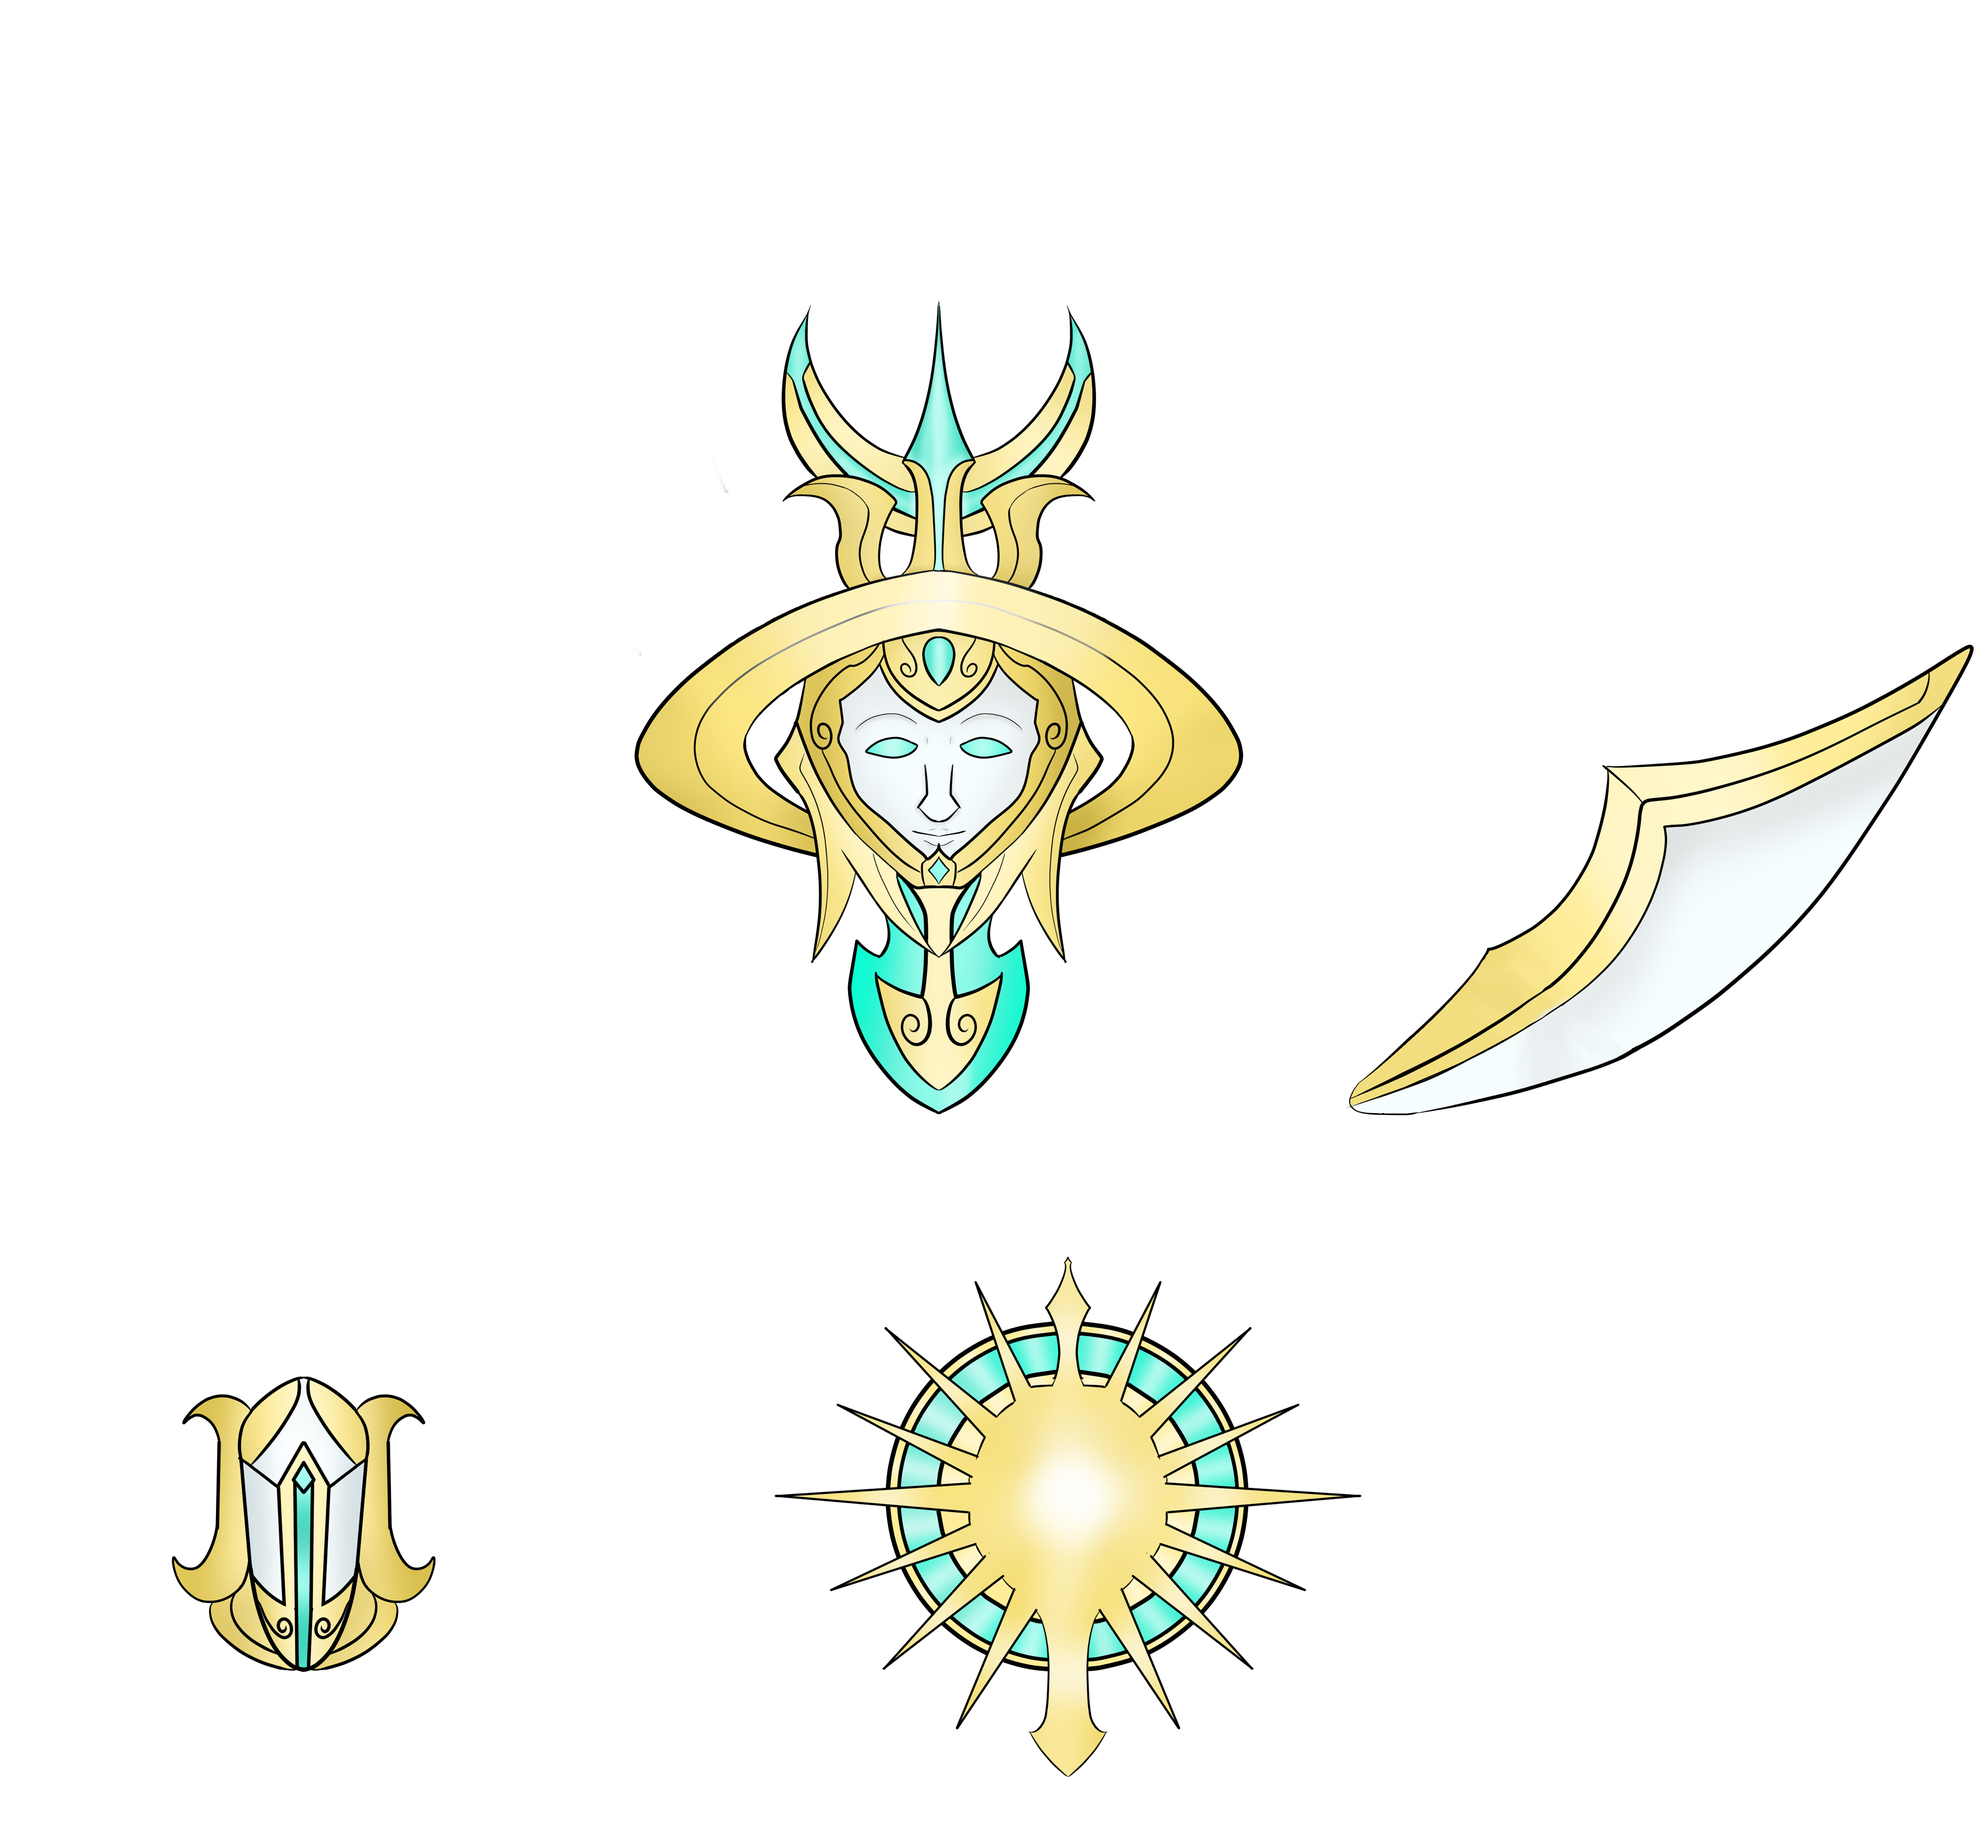
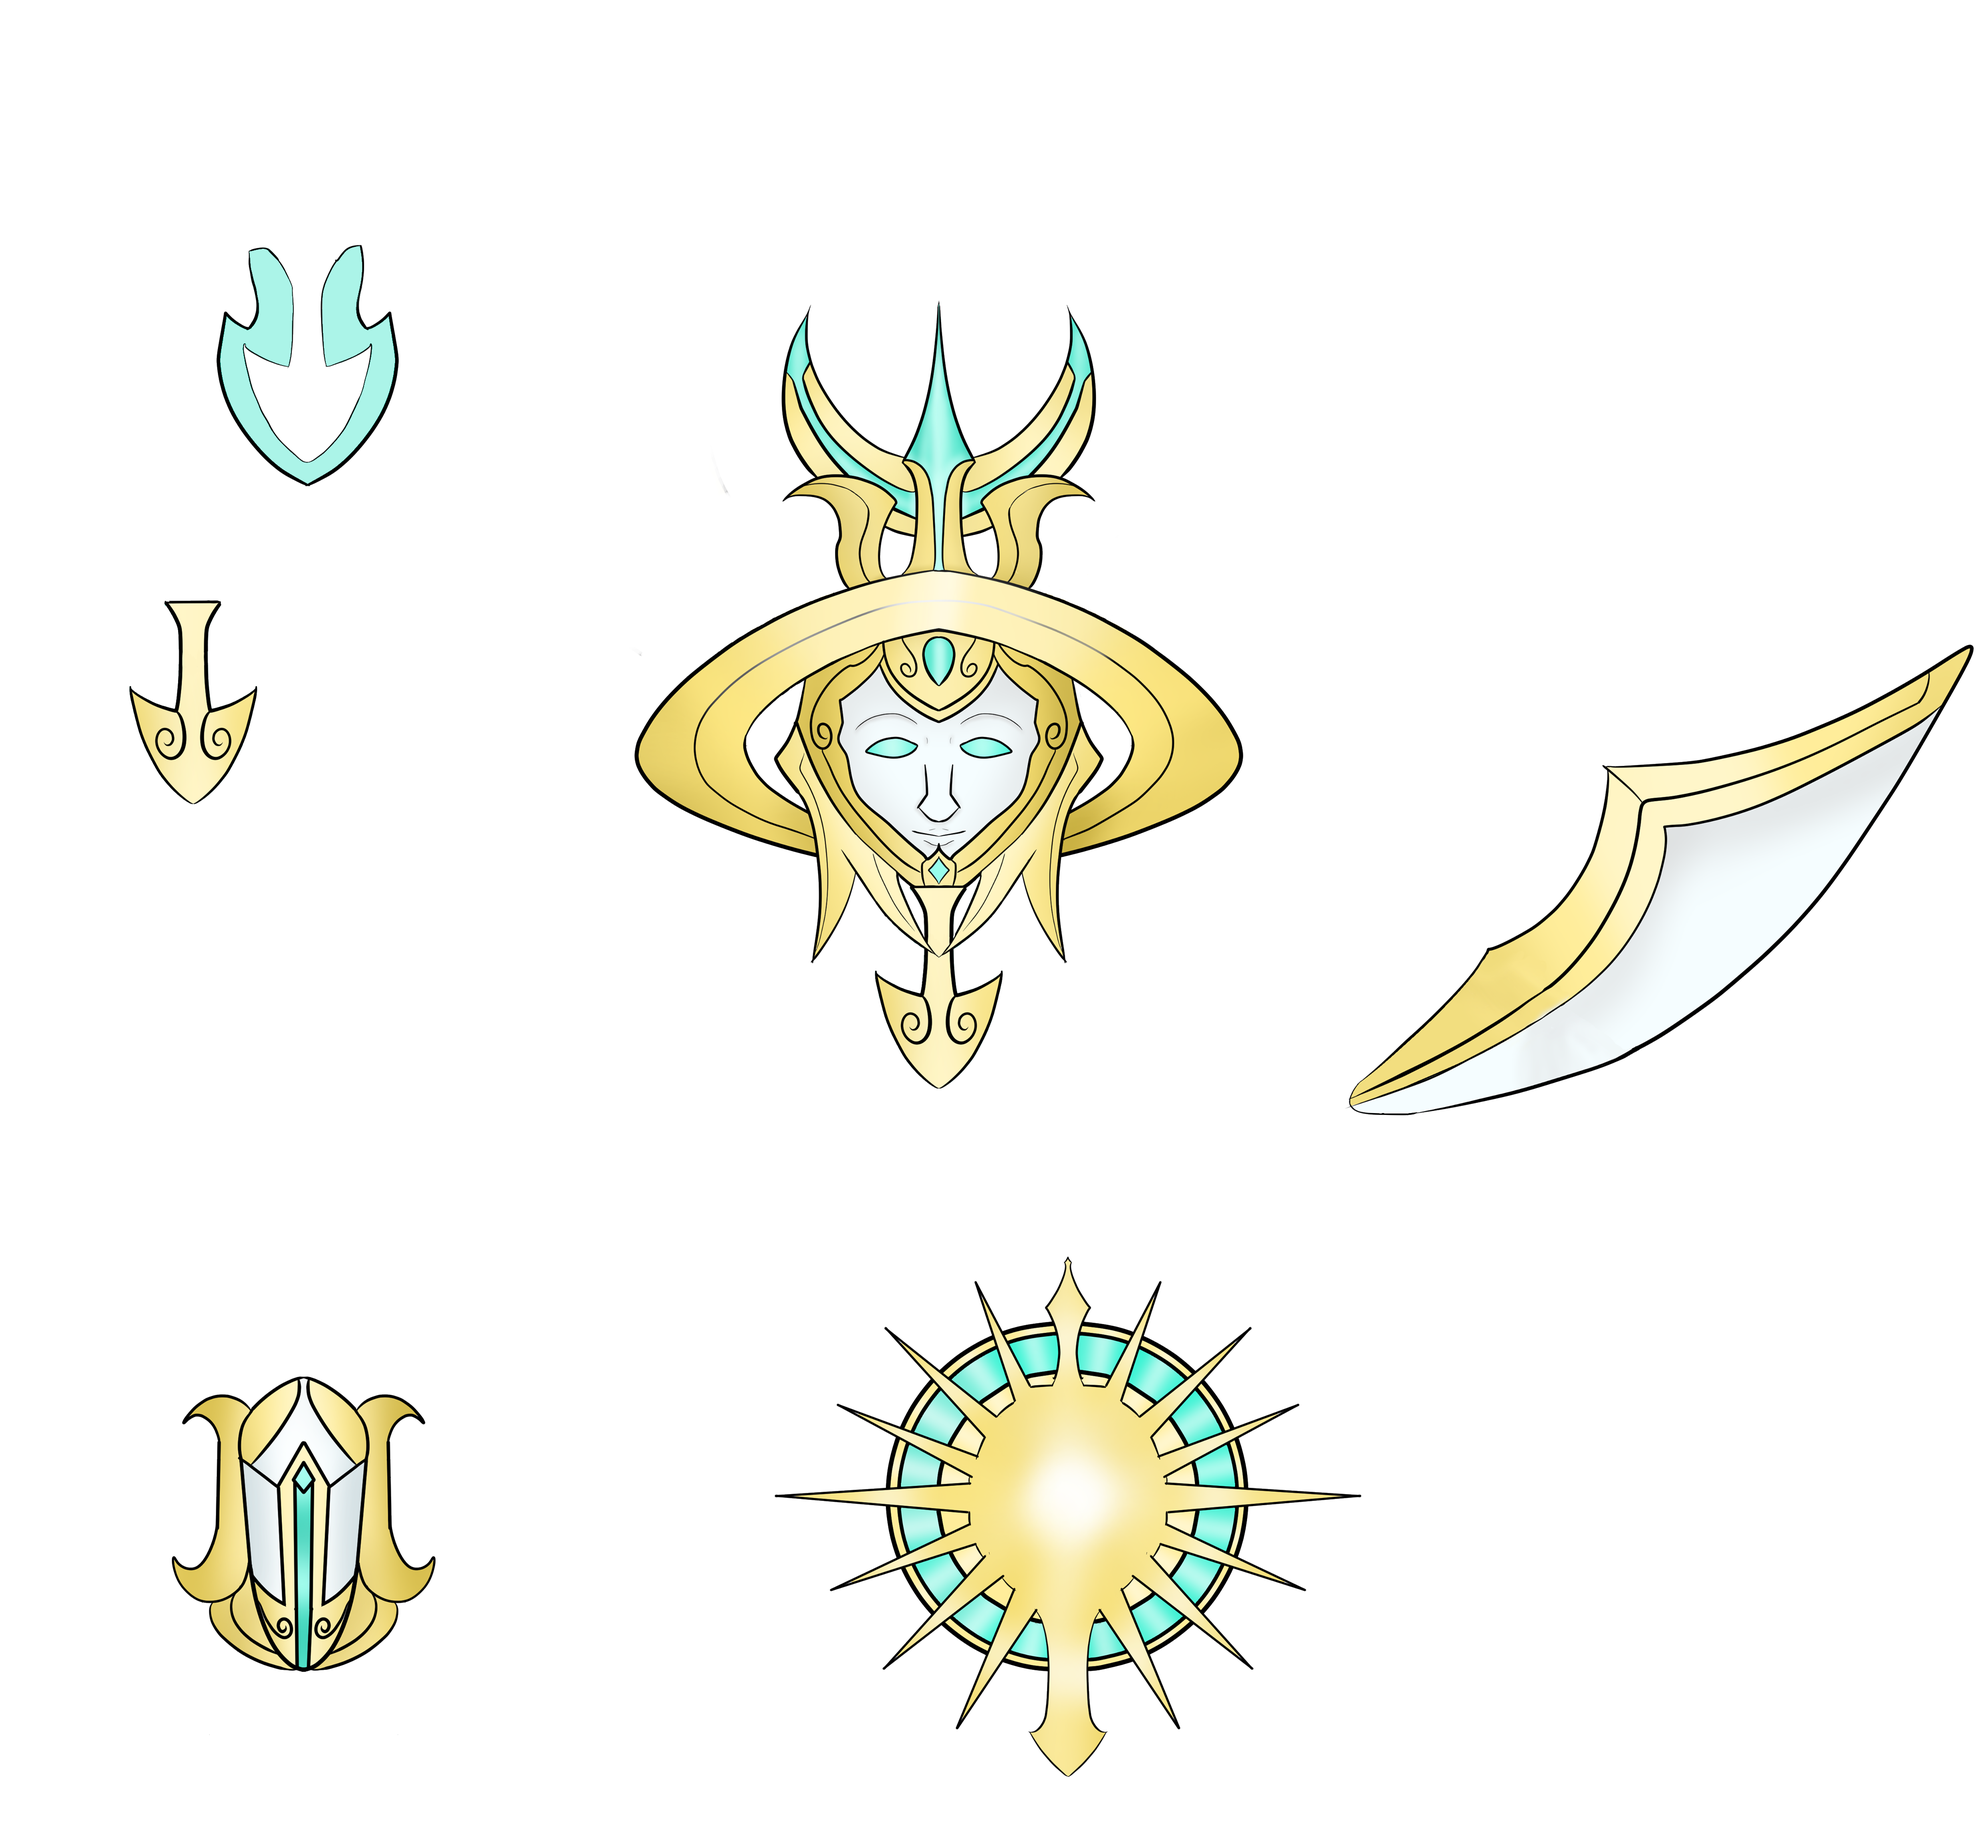
Added blade effect to archangel dive

Changed region(s): [[0.0938, 0.1247, 0.2188, 0.2806], [0.4062, 0.4676, 0.5312, 0.6235], [0.0625, 0.3118, 0.125, 0.4365]]

diff --git a/Assets/Scripts/Bosses/Archangel.cs b/Assets/Scripts/Bosses/Archangel.cs
@@ -8,6 +8,7 @@ public class Archangel : EnemyBase
     Vector3 point=Vector3.up*Scaler.sizeY;
     List<Transform> rings=new List<Transform>();
     Sprite face;
+    Core chin;
     float timer;
     int shotId;
     Del update,check;
@@ -41,6 +42,11 @@ public class Archangel : EnemyBase
             go.transform.Rotate(0,0,35*(i==0?1:-1));
             wings[i]=go.transform;
         }
+        go=new GameObject("chin");
+        chin=go.AddComponent<Core>().Set(ei.sprites[4],Color.clear);
+        chin.white=new Color(0,1,1);
+        go.transform.parent=transform;
+        go.transform.Translate(0,-3.37f,0.01f);
         shotId=ei.bulletsID[0];
         update=Intro;
         check=Check;
@@ -73,9 +79,11 @@ public class Archangel : EnemyBase
         if(transform.position==Vector3.up*Scaler.sizeY/2)
             timer+=Time.deltaTime;
         halo.Rotate(0,0,Mathf.Sin(Time.time)*180*Time.deltaTime);
-        if(timer>1)
+        if(timer>1){
             foreach (Core c in GetComponentsInChildren<Core>())
                 c.Add(Time.deltaTime/4);
+            chin.Add(Time.deltaTime/4);
+        }
         if(timer>4){
             halo.rotation=Quaternion.RotateTowards(halo.rotation,Quaternion.identity,180*Time.deltaTime);
             for(int i = 0; i < 2; i++)
@@ -87,6 +95,7 @@ public class Archangel : EnemyBase
             box.size=new Vector2(2,4);
             box.offset=new Vector2(0,-3);
             update=Creating;
+            chin.Set(Color.white,chin.white);
         }
     }
     void Shot(){
@@ -169,6 +178,7 @@ public class Archangel : EnemyBase
     }
     void Aim(){
         if(halo.parent)halo.rotation=Quaternion.RotateTowards(halo.rotation,Quaternion.identity,30*Time.deltaTime);
+        chin.Min(Time.deltaTime*2);
         Vector3 vector=GetPlayer(transform.position).position;
         transform.rotation=Quaternion.RotateTowards(transform.rotation,Quaternion.Euler(0,0,Vector2.SignedAngle(Vector2.down,vector-transform.position)),190*Time.deltaTime);
         for(int i = 0; i < 2; i++)
@@ -183,6 +193,7 @@ public class Archangel : EnemyBase
         if(halo.parent)
             halo.Rotate(0,0,Mathf.Sin(Time.time)*360*Time.deltaTime);
         timer+=Time.deltaTime;
+        chin.Add(Time.deltaTime*2);
         transform.Translate(0,-timer*6*Time.deltaTime,0);
         wings[0].localRotation=Quaternion.RotateTowards(wings[0].localRotation,Quaternion.Euler(0,0,35),70*Time.deltaTime);
         wings[1].localRotation=Quaternion.RotateTowards(wings[1].localRotation,Quaternion.Euler(0,0,-35),70*Time.deltaTime);
@@ -200,6 +211,7 @@ public class Archangel : EnemyBase
         if(halo.parent)halo.rotation=Quaternion.RotateTowards(halo.rotation,Quaternion.identity,60*Time.deltaTime);
         transform.rotation=Quaternion.RotateTowards(transform.rotation,Quaternion.identity,90*Time.deltaTime);
         transform.position=Vector3.MoveTowards(transform.position,Vector3.up*Scaler.sizeY/2,Time.deltaTime*3);
+        chin.Min(Time.deltaTime*2);
         for(int i = 0; i < 2; i++)
                 wings[i].localRotation=Quaternion.RotateTowards(wings[i].localRotation,Quaternion.identity,40*Time.deltaTime);
         if(transform.position==Vector3.up*Scaler.sizeY/2){
